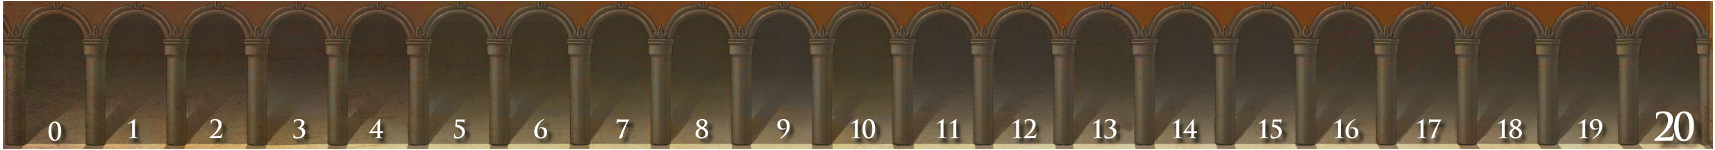
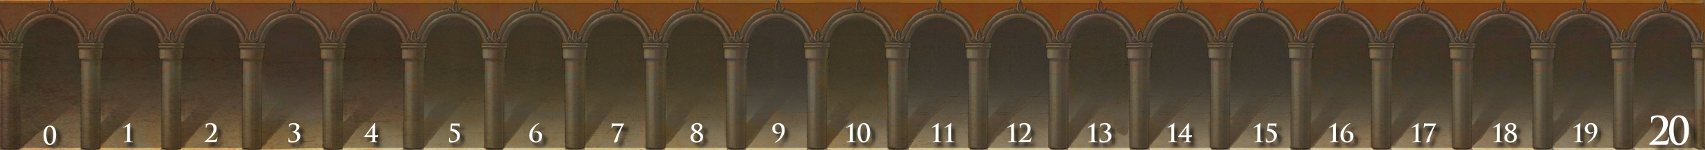
Perfect fit and sized png.

diff --git a/src/client/GUI.java b/src/client/GUI.java
@@ -93,13 +93,14 @@ public class GUI extends Application {
 
         //Nobility setup
         Image nobilityPath = new Image(classLoader.getResourceAsStream("nobility.png"));
-        Canvas nobilityCanvas = new Canvas(1710,145);
-        nobilityCanvas.getGraphicsContext2D().drawImage(nobilityPath, 0, 0, 1710, 145);
-        WritableImage nobi = new WritableImage(1710,145);
+        Canvas nobilityCanvas = new Canvas(1705,150);
+        nobilityCanvas.getGraphicsContext2D().clearRect(0,0,1705,150);
+        nobilityCanvas.getGraphicsContext2D().drawImage(nobilityPath, 0, 0, 1705, 150);
+        WritableImage nobi = new WritableImage(1705,150);
         nobilityCanvas.snapshot(null,nobi);
         BufferedImage bi = SwingFXUtils.fromFXImage(nobi, null);
         Image image = SwingFXUtils.toFXImage(bi, null);
-        boardObjects.add(new ObjectImageView(image, 0.04808196834915602, 0.8200382513661202, 0.68753772));
+        boardObjects.add(new ObjectImageView(image, 0.04968196834915602, 0.8150382513661202, 0.68253772));
 
 
         setBoardObjects(boardObjects, classLoader);
